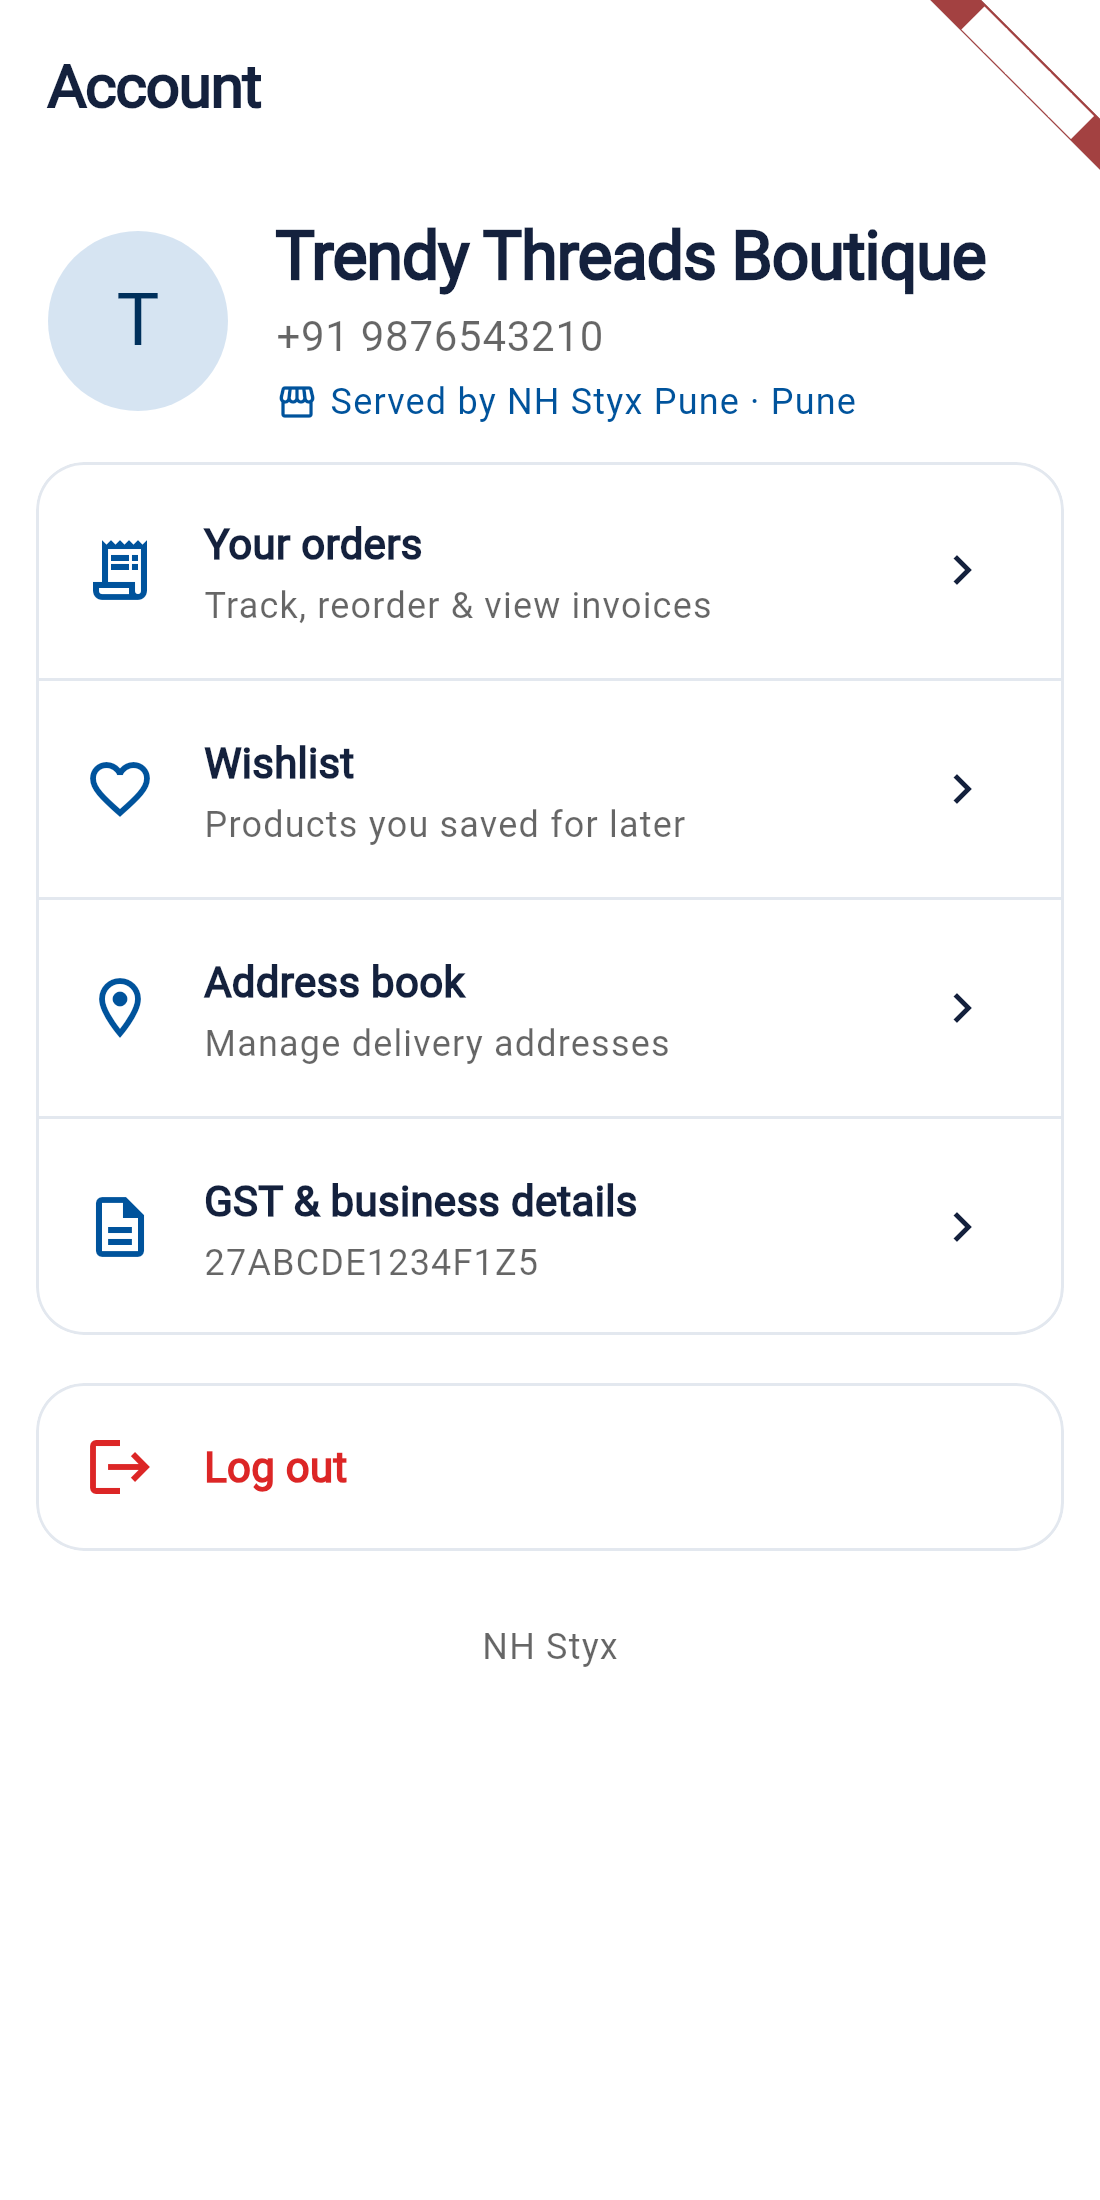
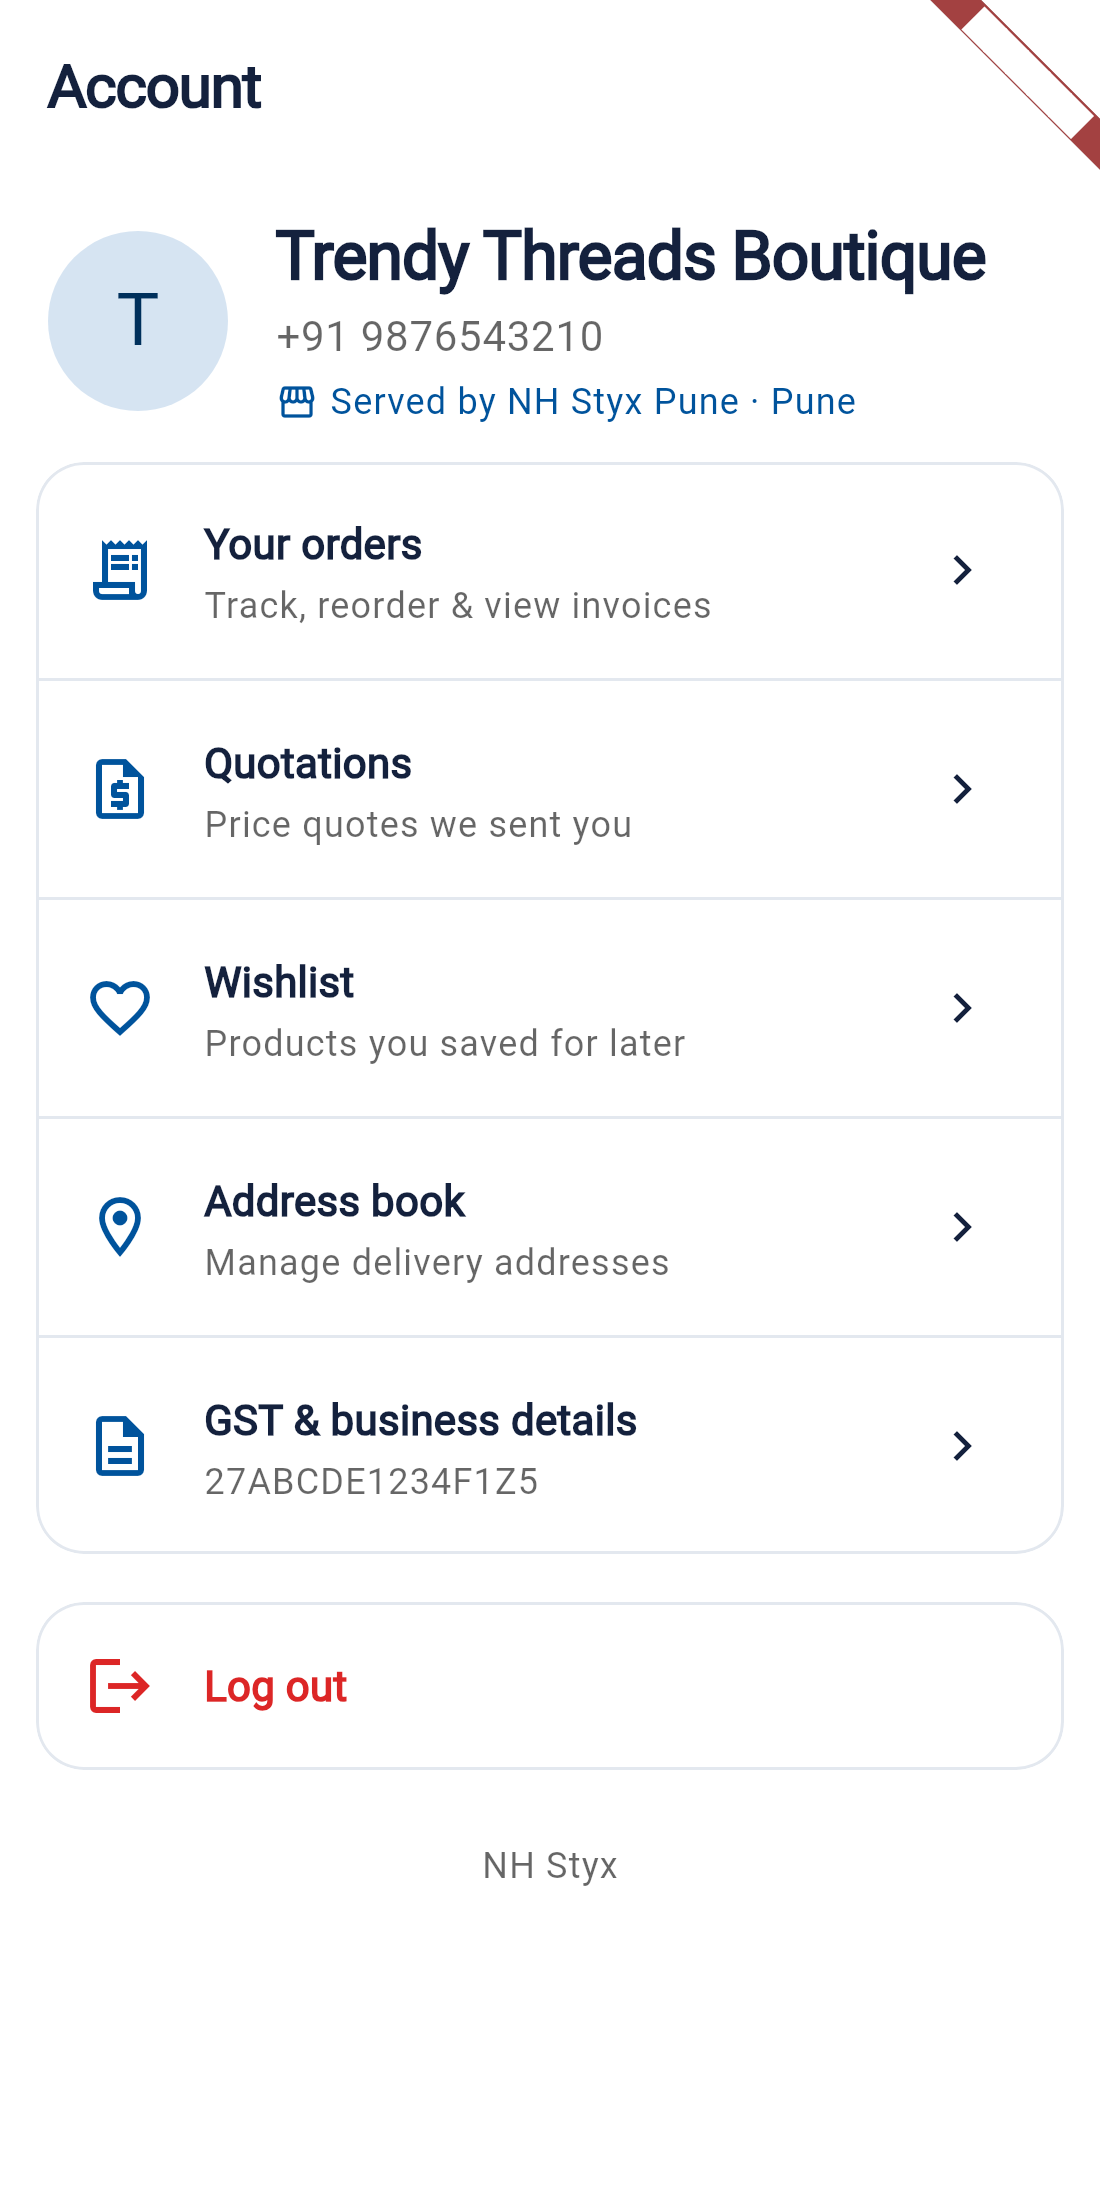
test: repair stale ProductRepository fakes + refresh goldens
The test fakes fell behind the repository interface (missing
fetchBrands/fetchReviews/fetchMyReview/submitReview and the filter
parameters on fetchProducts), which broke `flutter analyze` with 4
errors. Bring both fakes up to date and regenerate the doc screenshots
whose goldens drifted from intended UI changes (bundles entry in the app
bar, tracking rows on orders, profile menu).

Claude-Session: https://claude.ai/code/session_01XctZMKQK3nMeNKktzqZ7zj

diff --git a/test/screenshots_test.dart b/test/screenshots_test.dart
@@ -11,6 +11,7 @@ import 'package:nhstyx_customer/src/features/categories/data/category_repository
 import 'package:nhstyx_customer/src/features/categories/domain/category.dart';
 import 'package:nhstyx_customer/src/features/products/data/product_repository.dart';
 import 'package:nhstyx_customer/src/features/products/domain/product.dart';
+import 'package:nhstyx_customer/src/features/products/domain/review.dart';
 import 'package:nhstyx_customer/src/features/products/presentation/products_screen.dart';
 import 'package:nhstyx_customer/src/features/orders/domain/order.dart';
 import 'package:nhstyx_customer/src/features/orders/presentation/orders_controller.dart';
@@ -44,15 +45,34 @@ List<Product> _catalog() => const [
 
 class _FakeProductRepo implements ProductRepository {
   @override
-  Future<List<Product>> fetchProducts({String? search, String? categoryId, int page = 1, int limit = 40}) async =>
+  Future<List<Product>> fetchProducts({
+    String? search,
+    String? categoryId,
+    String? sort,
+    String? brand,
+    int? minPricePaise,
+    int? maxPricePaise,
+    bool inStock = false,
+    int page = 1,
+    int limit = 40,
+  }) async =>
       _catalog();
   @override
   Future<List<Product>> fetchBestSelling() async => _catalog().take(3).toList();
   @override
   Future<List<Product>> fetchRecentlyOrdered() async => const [];
   @override
+  Future<List<String>> fetchBrands() async => const [];
+  @override
   Future<Product> fetchProduct(String id) async =>
       _catalog().firstWhere((p) => p.id == id, orElse: () => _catalog().first);
+  @override
+  Future<ReviewSummary> fetchReviews(String productId) async =>
+      const ReviewSummary(avg: 0, count: 0, items: []);
+  @override
+  Future<({int rating, String? comment})?> fetchMyReview(String productId) async => null;
+  @override
+  Future<void> submitReview(String productId, {required int rating, String? comment}) async {}
 }
 
 class _FakeCategoryRepo implements CategoryRepository {

diff --git a/test/shop_screen_test.dart b/test/shop_screen_test.dart
@@ -5,6 +5,7 @@ import 'package:nhstyx_customer/src/features/categories/data/category_repository
 import 'package:nhstyx_customer/src/features/categories/domain/category.dart';
 import 'package:nhstyx_customer/src/features/products/data/product_repository.dart';
 import 'package:nhstyx_customer/src/features/products/domain/product.dart';
+import 'package:nhstyx_customer/src/features/products/domain/review.dart';
 import 'package:nhstyx_customer/src/features/products/presentation/product_card.dart';
 import 'package:nhstyx_customer/src/features/products/presentation/products_screen.dart';
 
@@ -13,6 +14,11 @@ class _FakeProductRepo implements ProductRepository {
   Future<List<Product>> fetchProducts({
     String? search,
     String? categoryId,
+    String? sort,
+    String? brand,
+    int? minPricePaise,
+    int? maxPricePaise,
+    bool inStock = false,
     int page = 1,
     int limit = 40,
   }) async {
@@ -36,6 +42,9 @@ class _FakeProductRepo implements ProductRepository {
   Future<List<Product>> fetchRecentlyOrdered() async => const [];
 
   @override
+  Future<List<String>> fetchBrands() async => const [];
+
+  @override
   Future<Product> fetchProduct(String id) async => const Product(
         id: 'p1',
         name: 'Test Cotton Kurti',
@@ -45,6 +54,16 @@ class _FakeProductRepo implements ProductRepository {
         moqQty: 6,
         stockQty: 100,
       );
+
+  @override
+  Future<ReviewSummary> fetchReviews(String productId) async =>
+      const ReviewSummary(avg: 0, count: 0, items: []);
+
+  @override
+  Future<({int rating, String? comment})?> fetchMyReview(String productId) async => null;
+
+  @override
+  Future<void> submitReview(String productId, {required int rating, String? comment}) async {}
 }
 
 class _FakeCategoryRepo implements CategoryRepository {